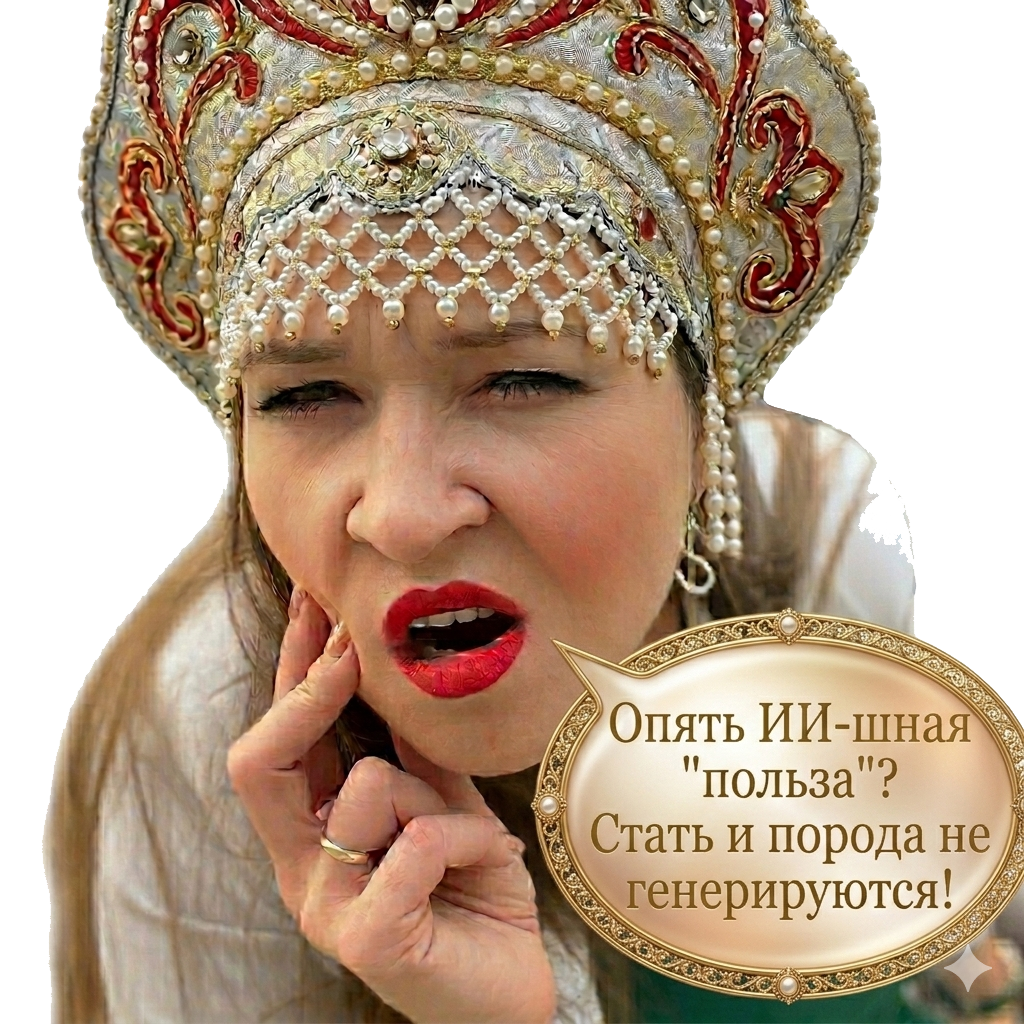
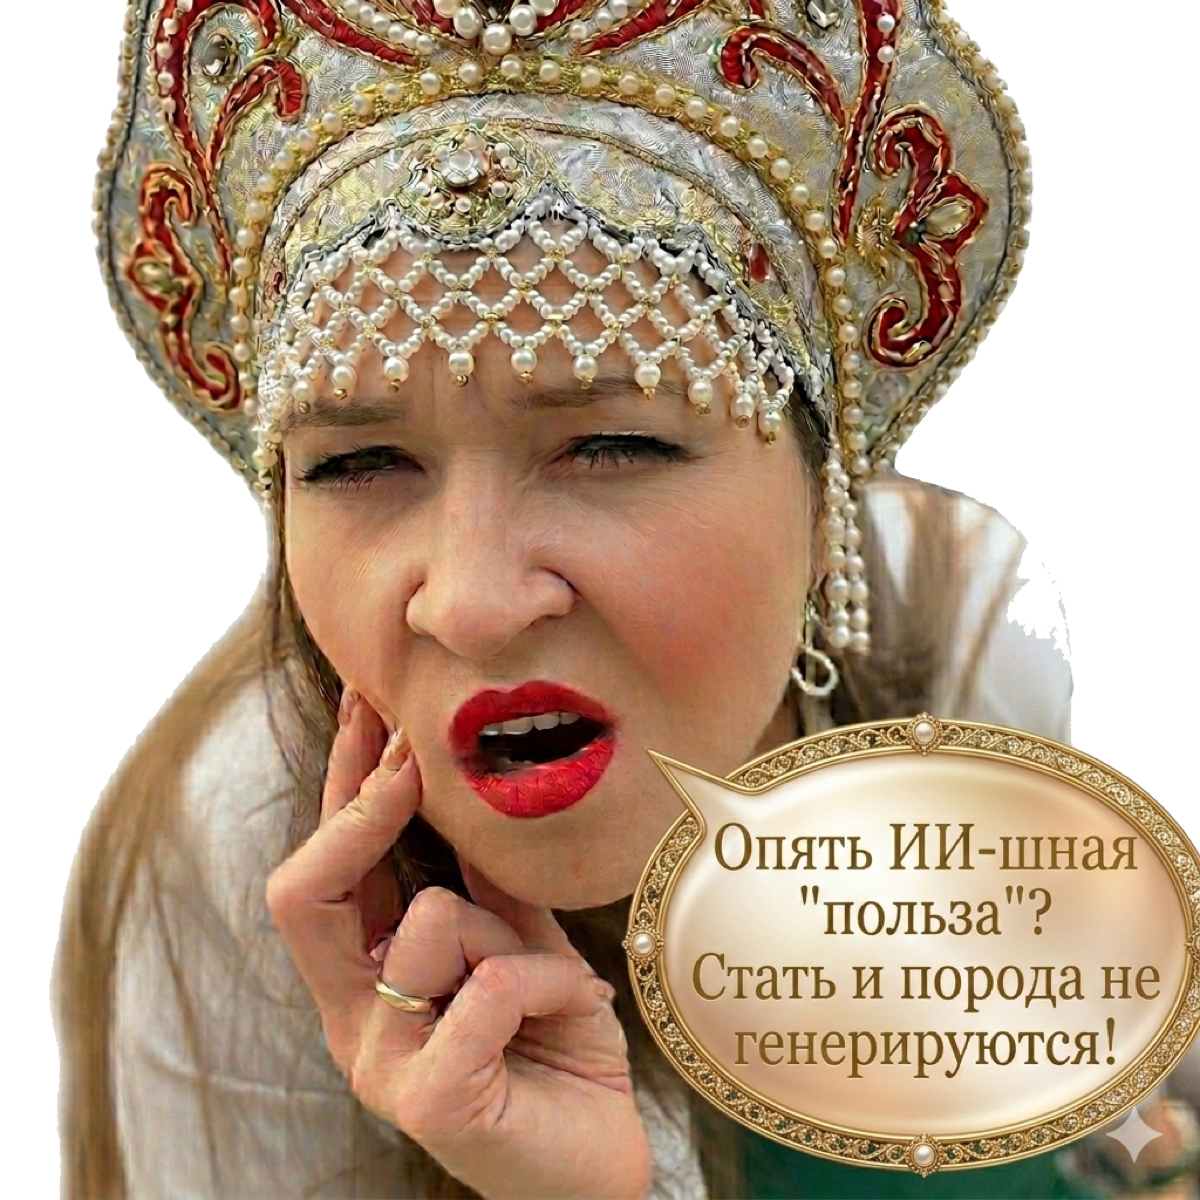
content(jury): «Возможность выложить видео-визитку» → «Право выложить»

diff --git a/apps/tma/kreativ_chempionat_getcourse.html b/apps/tma/kreativ_chempionat_getcourse.html
@@ -4168,7 +4168,7 @@ async function loadData() {
         "Размещение в двух локациях: 5* отель у моря и бунгало среди водопадов, гор и термальных источников",
         "Печать вашего личного именного банера для брендированного контента",
         "Персональные съемки с именным баннером в нестандартных локациях в стиле 'Угадай, ИИ или не ИИ?': летающая доска, страус, байк, параплан, лестница в небо",
-        "Возможность выложить видео-визитку в чате на 900+ человек",
+        "Право выложить видео-визитку в чате на 900+ человек",
         "Реклама по базе чемпионата"
       ]
     }
